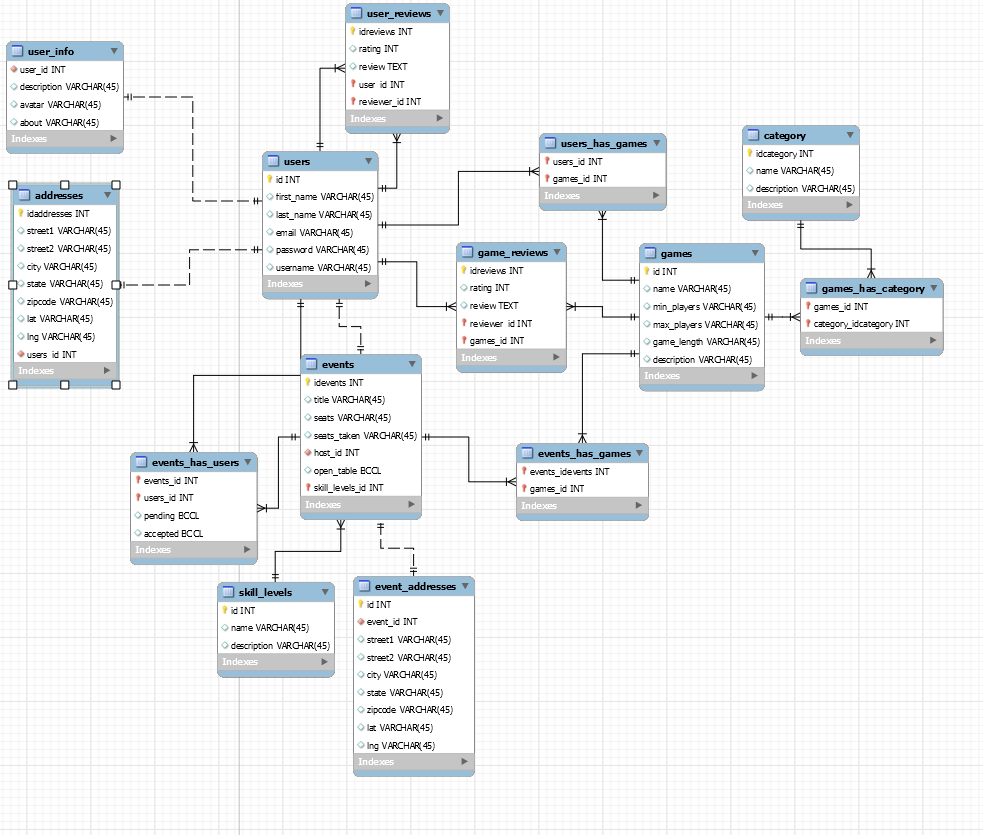
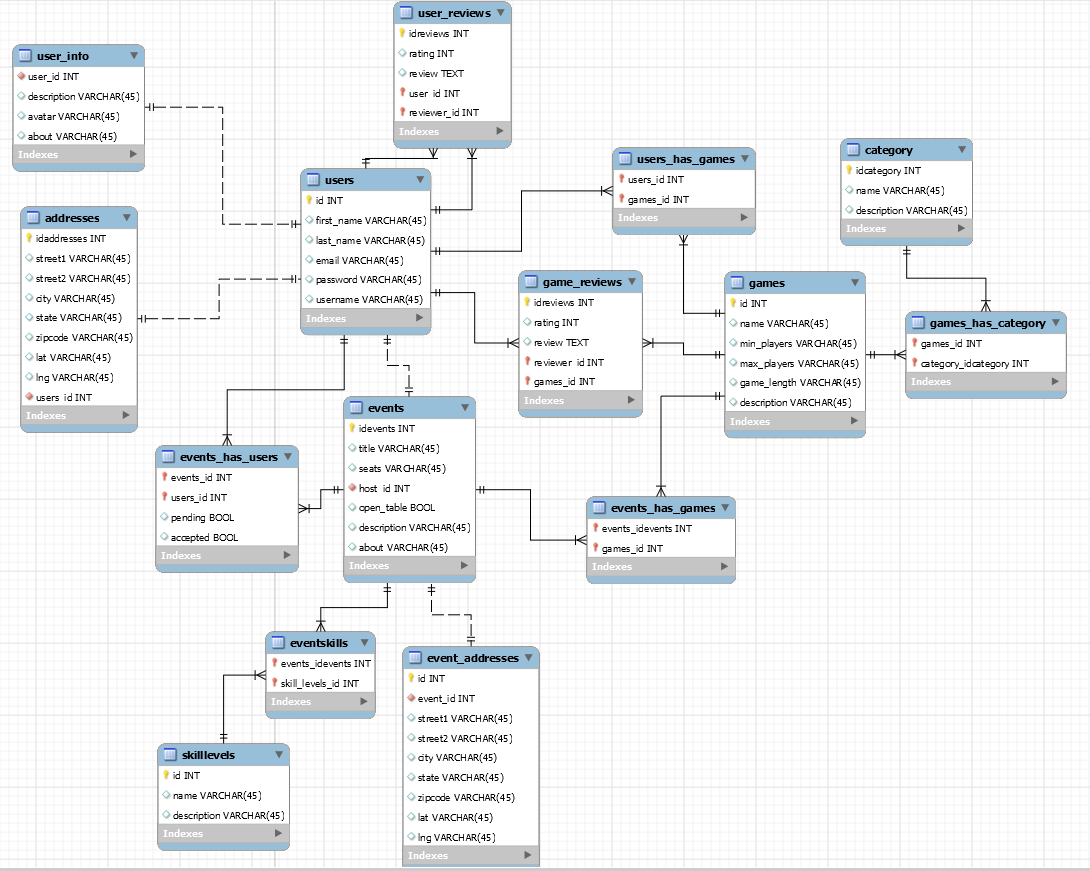
add events index, show. add events to user profile page

Changed region(s): [[0.0, 0.0, 1.0, 1.0], [0.1831, 0.1246, 0.2136, 0.1868], [0.1831, 0.218, 0.2136, 0.2491]]

diff --git a/app/models/event.rb b/app/models/event.rb
@@ -1,3 +1,68 @@
 class Event < ActiveRecord::Base
   belongs_to :user
+  has_many :eventusers
+  has_many :users, through: :eventusers
+  has_many :eventgames
+  has_many :games, through: :eventgames
+  has_many :eventskills
+  has_many :skilllevels, through: :eventskills
+  has_one :eventaddress
+
+  def accepted_user user
+  	self.eventusers.each do |thing|
+  		if thing.user == user and thing.accepted == true
+  			return true
+  		end
+  	end
+  	return false
+  end
+
+  def accepted_count
+  	count = 0
+  	self.eventusers.each do |thing|
+  		if thing.accepted == true
+  			count += 1
+  		end
+  	end
+  	return count
+  end
+
+  def accepted_list
+  	list = []
+  	self.eventusers.each do |thing|
+  		if thing.accepted == true
+  			list.push(thing.user)
+  		end
+  	end
+  	return list
+  end
+
+  def pending_user user
+  	self.eventusers.each do |thing|
+  		if thing.user == user and thing.pending == true
+  			return true
+  		end
+  	end
+  	return false
+  end
+
+  def pending_count
+  	count = 0
+  	self.eventusers.each do |thing|
+  		if thing.pending == true
+  			count += 1
+  		end
+  	end
+  	return count
+  end
+
+  def pending_list
+  	list = []
+  	self.eventusers.each do |thing|
+  		if thing.pending == true
+  			list.push(thing.user)
+  		end
+  	end
+  	return list
+  end
 end

diff --git a/app/controllers/events_controller.rb b/app/controllers/events_controller.rb
@@ -1,22 +1,59 @@
 class EventsController < ApplicationController
   def index
+    @events = Event.all
+    @user = User.find(session[:user_id])
   end
 
   def show
+    @event = Event.find(params[:id])
+    @user = User.find(session[:user_id])
   end
 
   def new
   end
 
   def create
+
+    if params[:event][:open] == "open"
+      params[:event][:open] = true
+    else
+      params[:event][:open] = false
+    end
+    event = Event.new(event_params)
+    if event.valid?
+      user = User.find(session[:user_id])
+      event.user = user
+      event.save
+      redirect_to "/events/#{event.id}"
+    else
+      flash[:errors] = event.errors.full_messages
+      redirect_to "/events/new"
+    end
   end
 
   def edit
+  end
+
+  def join
+    event = Event.find(params[:id])
+    user = User.find(session[:user_id])
+    joins = Eventuser.new(user: user, event: event, pending: true, accepted: false)
+    if joins.valid?
+      joins.save
+    else
+      flash[:errors] = joins.errors.full_messages
+    end
+    redirect_to "/events/#{event.id}"
   end
 
   def update
   end
 
   def destroy
+  end
+
+  private
+  def event_params
+    params.require(:event).permit(:title, :description, :about, :seats, :open, :date, :time, :user)
   end
 end

diff --git a/db/schema.rb b/db/schema.rb
@@ -11,7 +11,7 @@
 #
 # It's strongly recommended that you check this file into your version control system.
 
-ActiveRecord::Schema.define(version: 20160225233359) do
+ActiveRecord::Schema.define(version: 20160226004527) do
 
   # These are extensions that must be enabled in order to support this database
   enable_extension "plpgsql"
@@ -71,6 +71,8 @@ ActiveRecord::Schema.define(version: 20160225233359) do
     t.boolean  "open"
     t.datetime "created_at",  null: false
     t.datetime "updated_at",  null: false
+    t.date     "date"
+    t.time     "time"
   end
 
   add_index "events", ["user_id"], name: "index_events_on_user_id", using: :btree

diff --git a/config/routes.rb b/config/routes.rb
@@ -1,18 +1,20 @@
 Rails.application.routes.draw do
 
-  get 'events/index'
+  get 'events/' => 'events#index'
 
-  get 'events/show'
+  get 'events/new' => 'events#new'
 
-  get 'events/new'
+  post 'events/create' => 'events#create'
 
-  get 'events/create'
+  get 'events/:id/edit' => 'events#edit'
 
-  get 'events/edit'
+  get 'events/:id/join' => 'events#join'
 
-  get 'events/update'
+  get 'events/:id' => 'events#show'
 
-  get 'events/destroy'
+  patch 'events/:id' => 'events#update'
+
+  delete 'events/:id' => 'events#destroy'
 
   #######################
   # User Reviews

diff --git a/app/models/user.rb b/app/models/user.rb
@@ -2,6 +2,8 @@ class User < ActiveRecord::Base
 	has_many :usergames
 	has_many :addresses, dependent: :destroy
 	has_many :games, through: :usergames
+	has_many :eventusers
+	has_many :events, through: :eventusers
 	has_secure_password
 	EMAIL_REGEX = /\A([^@\s]+)@((?:[-a-z0-9]+\.)+[a-z]+)\z/i
 	validates :first_name, :last_name, presence: true, length: { in: 2..100 }

diff --git a/app/models/game.rb b/app/models/game.rb
@@ -3,6 +3,8 @@ class Game < ActiveRecord::Base
 	has_many :users, through: :usergames
 	has_many :gamecategories
 	has_many :categories, through: :gamecategories
+	has_many :eventgames
+	has_many :events, through: :eventgames
 
 	validates :name, :description, presence: true, length: { in: 2..100}
 	validates :about, length: { maximum: 10000 }, presence: false

diff --git a/app/controllers/users_controller.rb b/app/controllers/users_controller.rb
@@ -25,6 +25,7 @@ class UsersController < ApplicationController
   def show
     @user = User.find(params[:id])
     @games = @user.games
+    @events = @user.events
   end
 
   def update

diff --git a/db/migrate/20160226004527_add_event_date_and_time.rb b/db/migrate/20160226004527_add_event_date_and_time.rb
@@ -1,0 +1,6 @@
+class AddEventDateAndTime < ActiveRecord::Migration
+  def change
+  	add_column("events", "date", "date")
+  	add_column("events", "time", "time")
+  end
+end

diff --git a/app/models/skilllevel.rb b/app/models/skilllevel.rb
@@ -1,2 +1,4 @@
 class Skilllevel < ActiveRecord::Base
+	has_many :eventskills
+	has_many :events, through: :eventskills
 end
